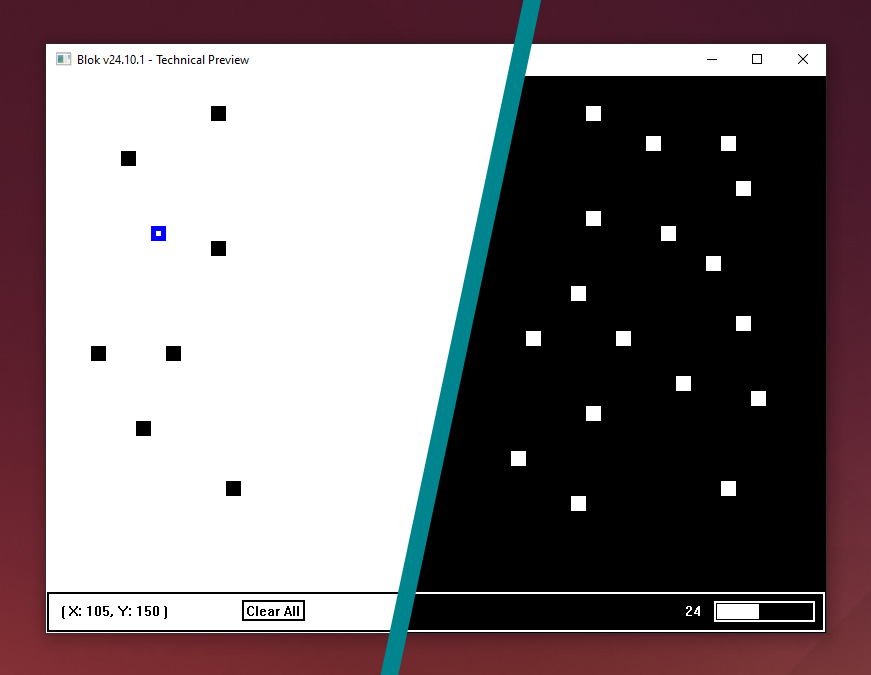
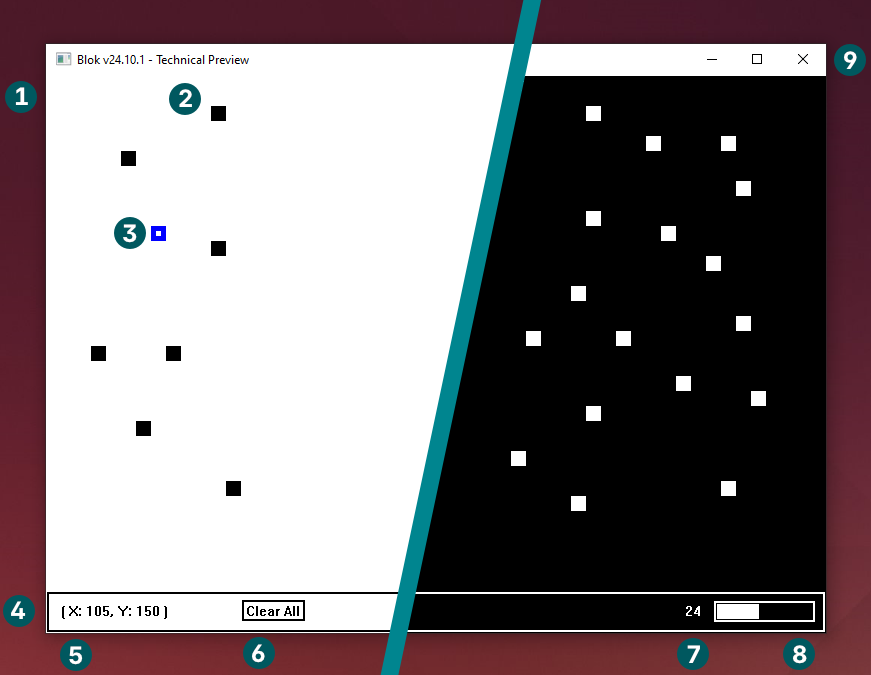
Update usage section

diff --git a/Readme.md b/Readme.md
@@ -10,6 +10,18 @@
 
 ![Program Light and Dark Mode](./doc/program-screenshot-light-dark.png)
 
+| Ref. | Description |
+|:----------|:------------|
+| 1 | This refers to the canvas component, where most of the interaction will take place. |
+| 2 | An "Obstructable", a sort of wall for the "Block". This can be added by clicking on the canvas with the mouse. |
+| 3 | The "Block" (the main part or component) is a coloured square (blue in light mode, aqua in dark mode) that can be moved by the arrow keys and cannot move past the "Obstructables". |
+| 4 | The Panel component, which shows information and additional actions. |
+| 5 | Shows the coordinates of the "Block". |
+| 6 | A button to clear all the "Obstructables". |
+| 7 | Shows the number of "Obstructables" that have been created. |
+| 8 | Shows the internal vector capacity. |
+| 9 | The native window title. |
+
 ## Compilation and Execution
 
 This program uses the make build system. Note, this uses the clang compiler, you can
@@ -17,13 +29,15 @@ switch it to the GCC compiler, if you wish by changing the CC variable in the ma
 You can run the following:
 
 ```sh
-# Creating the folders build and bin for the compilation process.
+# Creating the folders for the compilation process.
 mingw32-make init
 
 # Building and linking the program.
 mingw32-make build
 
-# Running the program.
+# Running the program. 
+# Optional arguments "--light-mode" or "--dark-mode".
+# Default is dark mode.
 ./bin/neon-blok
 ```
 
@@ -42,7 +56,7 @@ prefixed with this. These are in PascalCase, while variables are in camelCase.
 
 ## Known Issues and Limitations
 
-- Some functionality from the previous version is missing.
+- GDI32 Graphics flicker
 
 ## Find an issue
 
